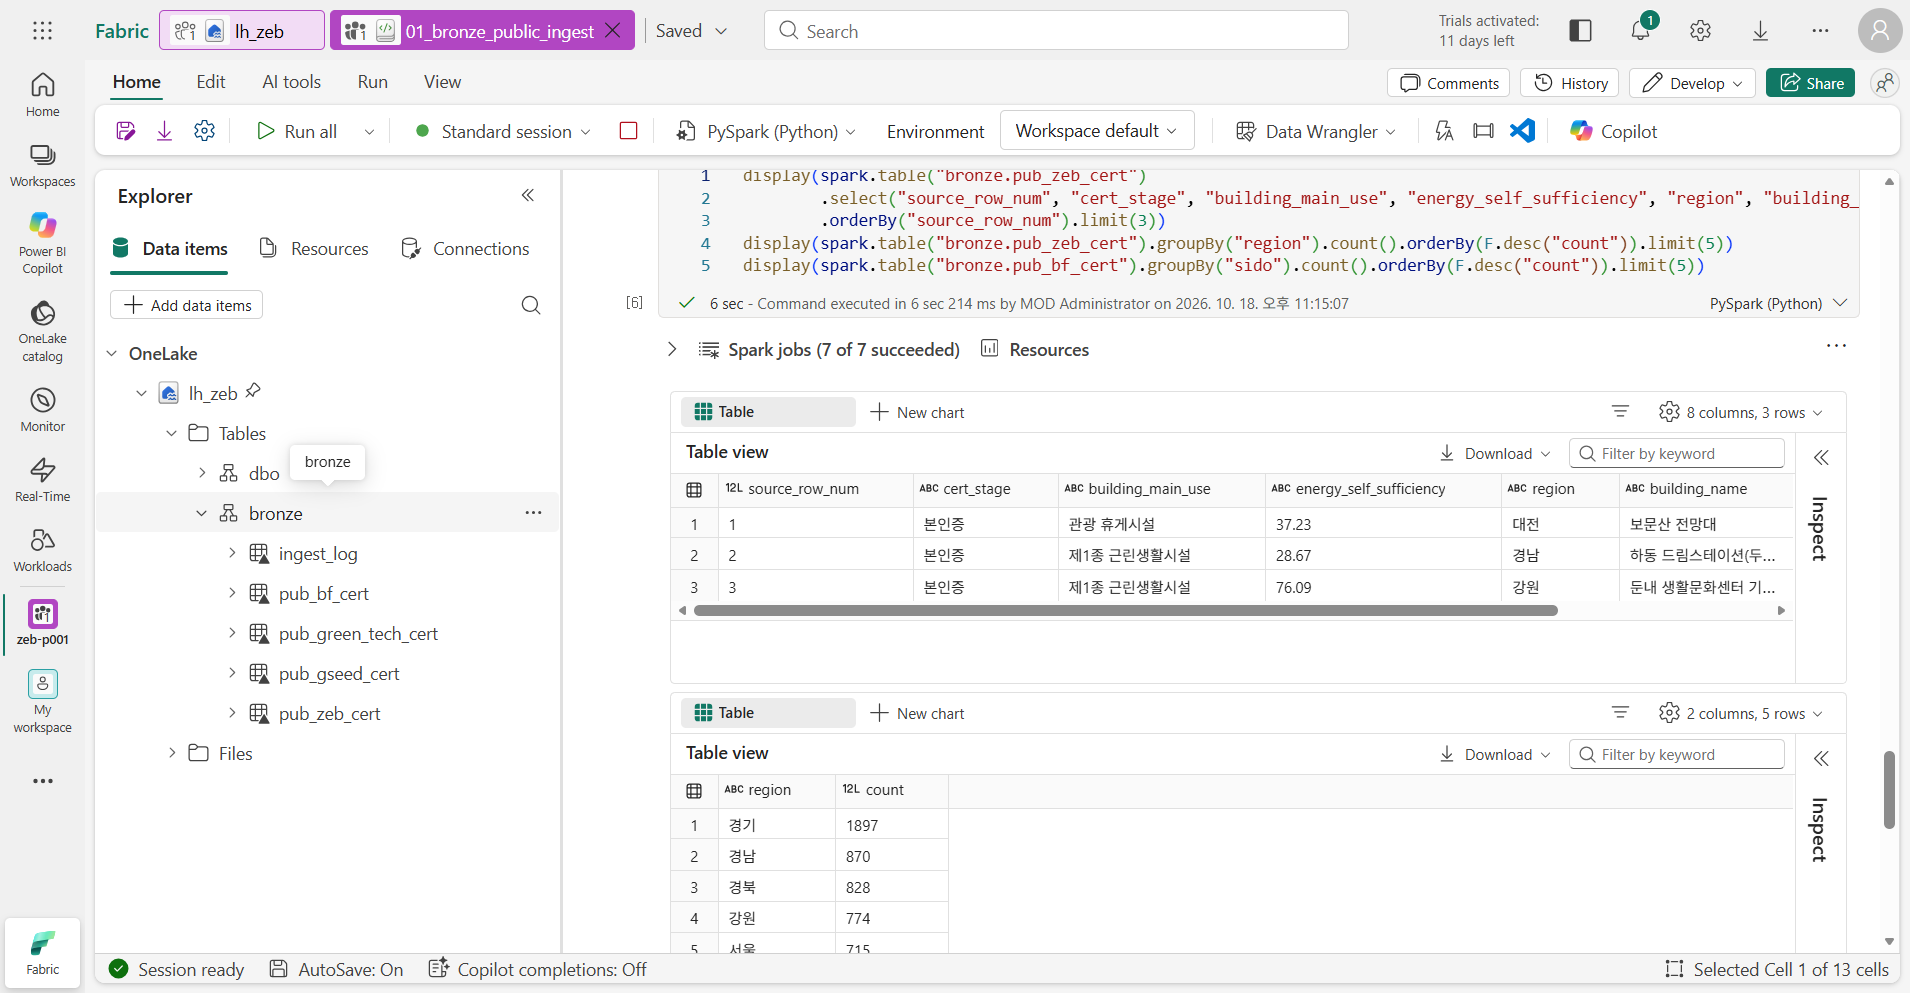
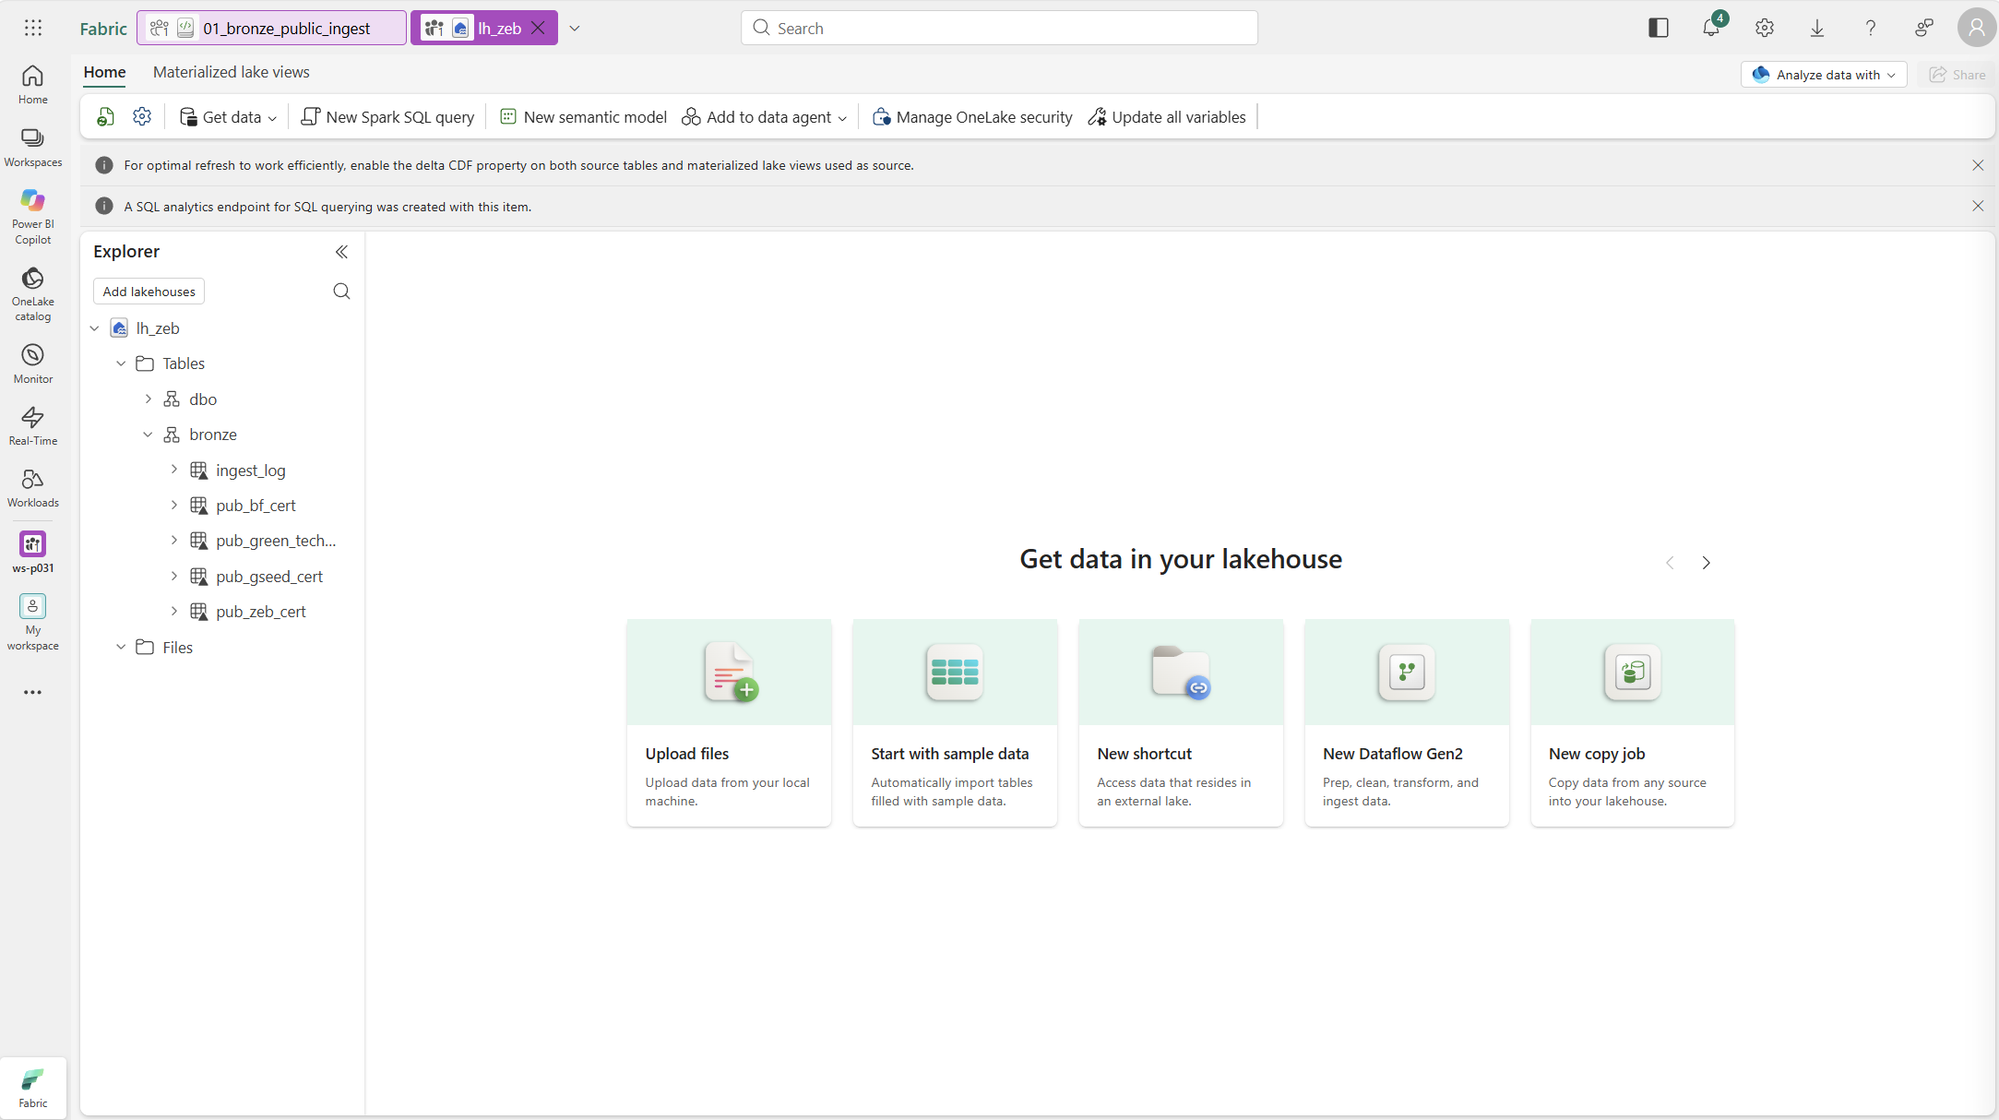
Refresh chapter 02 raw data and Lakehouse screenshots

diff --git a/docs/02-bronze-public.md b/docs/02-bronze-public.md
@@ -73,18 +73,22 @@ Bronze에서는 받은 값을 고치지 않습니다. 모든 값을 문자열로
     - ZEB의 `region`은 `경기` 1,897건, `경남` 870건, `경북` 828건처럼 짧은 표기입니다.
     - BF의 `sido`는 `경기도` 3,827건, `전라남도` 2,070건처럼 정식 표기입니다.
 
-    <img src="../assets/screenshots/d02-raw-values.png" width="1000" alt="5번 셀 실행 결과. 첫 표는 source_row_num 1–3의 ZEB 인증 원본 행으로 cert_stage 본인증, energy_self_sufficiency 37.23·28.67·76.09, region 대전·경남·강원, building_name 보문산 전망대 등이 문자열로 보입니다. 둘째 표는 region별 건수로 경기 1897, 경남 870, 경북 828, 강원 774, 서울 715입니다." />
+    <img src="../assets/screenshots/d02-zeb-raw-rows.png" width="1000" alt="ZEB 인증 원본 3행. energy_self_sufficiency가 37.23, 28.67, 76.09이고 region이 대전, 경남, 강원입니다. 열 이름 앞의 ABC 아이콘으로 문자열 형식을 확인할 수 있습니다." />
+
+    <img src="../assets/screenshots/d02-zeb-region-counts.png" width="1000" alt="ZEB region별 건수. 경기 1897, 경남 870, 경북 828, 강원 774, 서울 715로 시도 이름이 짧게 표기됩니다." />
+
+    <img src="../assets/screenshots/d02-bf-sido-counts.png" width="1000" alt="BF sido별 건수. 경기도 3827, 전라남도 2070, 경상북도 2062, 경상남도 1965, 서울특별시 1721로 시도 이름이 정식 표기됩니다." />
 
     기관마다 같은 시도를 다르게 쓰고, 건물 이름 뒤에 `기본 및 실시설계용역` 같은 말이 붙기도 합니다. 이대로는 기관끼리 비교하거나 연결할 수 없습니다. 그래도 Bronze에서는 고치지 않고 받은 그대로 둡니다. 표기 통일은 04장(Silver)에서 합니다.
 
 ## 3. Lakehouse에서 확인
 
-1.  Notebook 왼쪽 Explorer에서 `lh_zeb` → Tables를 펼칩니다. `dbo`만 보이면 Tables 오른쪽 …를 누르고 Refresh를 누릅니다.
+1.  본인 작업 영역에서 Lakehouse `lh_zeb`를 열고 왼쪽 Explorer의 Tables를 펼칩니다. Notebook의 Explorer에서도 확인할 수 있습니다. `dbo`만 보이면 Tables 오른쪽 …를 누르고 Refresh를 누릅니다.
 2.  새로 생긴 `bronze` 스키마를 펼칩니다.
 
 예상 결과: `bronze` 아래에 `ingest_log`, `pub_bf_cert`, `pub_green_tech_cert`, `pub_gseed_cert`, `pub_zeb_cert` 5개가 있습니다.
 
-<img src="../assets/screenshots/d02-bronze-tables.png" width="1000" alt="Notebook 왼쪽 Explorer. lh_zeb > Tables 아래에 dbo와 bronze 스키마가 있고, bronze 아래에 ingest_log, pub_bf_cert, pub_green_tech_cert, pub_gseed_cert, pub_zeb_cert 5개 테이블이 보입니다." />
+<img src="../assets/screenshots/d02-bronze-tables.png" width="1000" alt="Lakehouse lh_zeb의 Explorer. Tables 아래에 dbo와 bronze 스키마가 있고, bronze 아래에 ingest_log와 공공 인증 테이블 4개가 보입니다." />
 
 ## 이 장의 완료 기준
 
